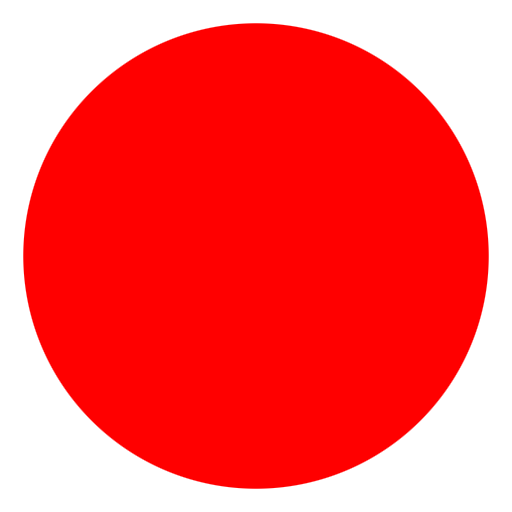
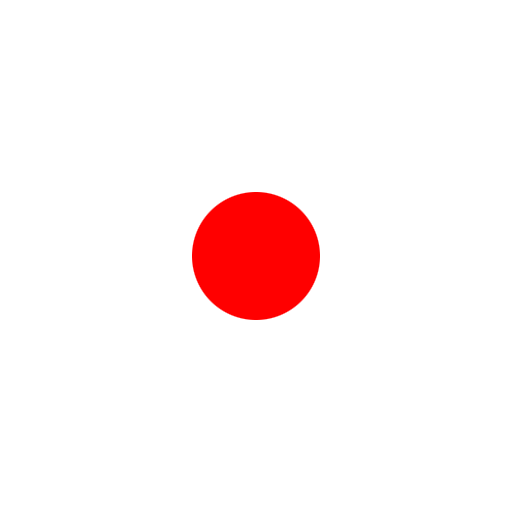
Add min capture world width to object preview images

diff --git a/Assets/_Game/Scripts/PrefabPreviewCapture.cs b/Assets/_Game/Scripts/PrefabPreviewCapture.cs
@@ -6,6 +6,7 @@ public static class PrefabPreviewCapture
 {
     const int ImageSize = 512;
     const float FramingPadding = 1.1f;
+    const float MinimumPreviewWorldSize = 4f;
 
     public static byte[] Capture(GameObject staging)
     {
@@ -74,7 +75,9 @@ public static class PrefabPreviewCapture
             camera = cameraObject.AddComponent<Camera>();
             camera.enabled = false;
             camera.orthographic = true;
-            camera.orthographicSize = Mathf.Max(bounds.size.x, bounds.size.y) * 0.5f * FramingPadding;
+            float frameSize = Mathf.Max(MinimumPreviewWorldSize,
+                Mathf.Max(bounds.size.x, bounds.size.y) * FramingPadding);
+            camera.orthographicSize = frameSize * 0.5f;
             camera.aspect = 1f;
             camera.clearFlags = CameraClearFlags.SolidColor;
             camera.cullingMask = 1 << previewLayer;
